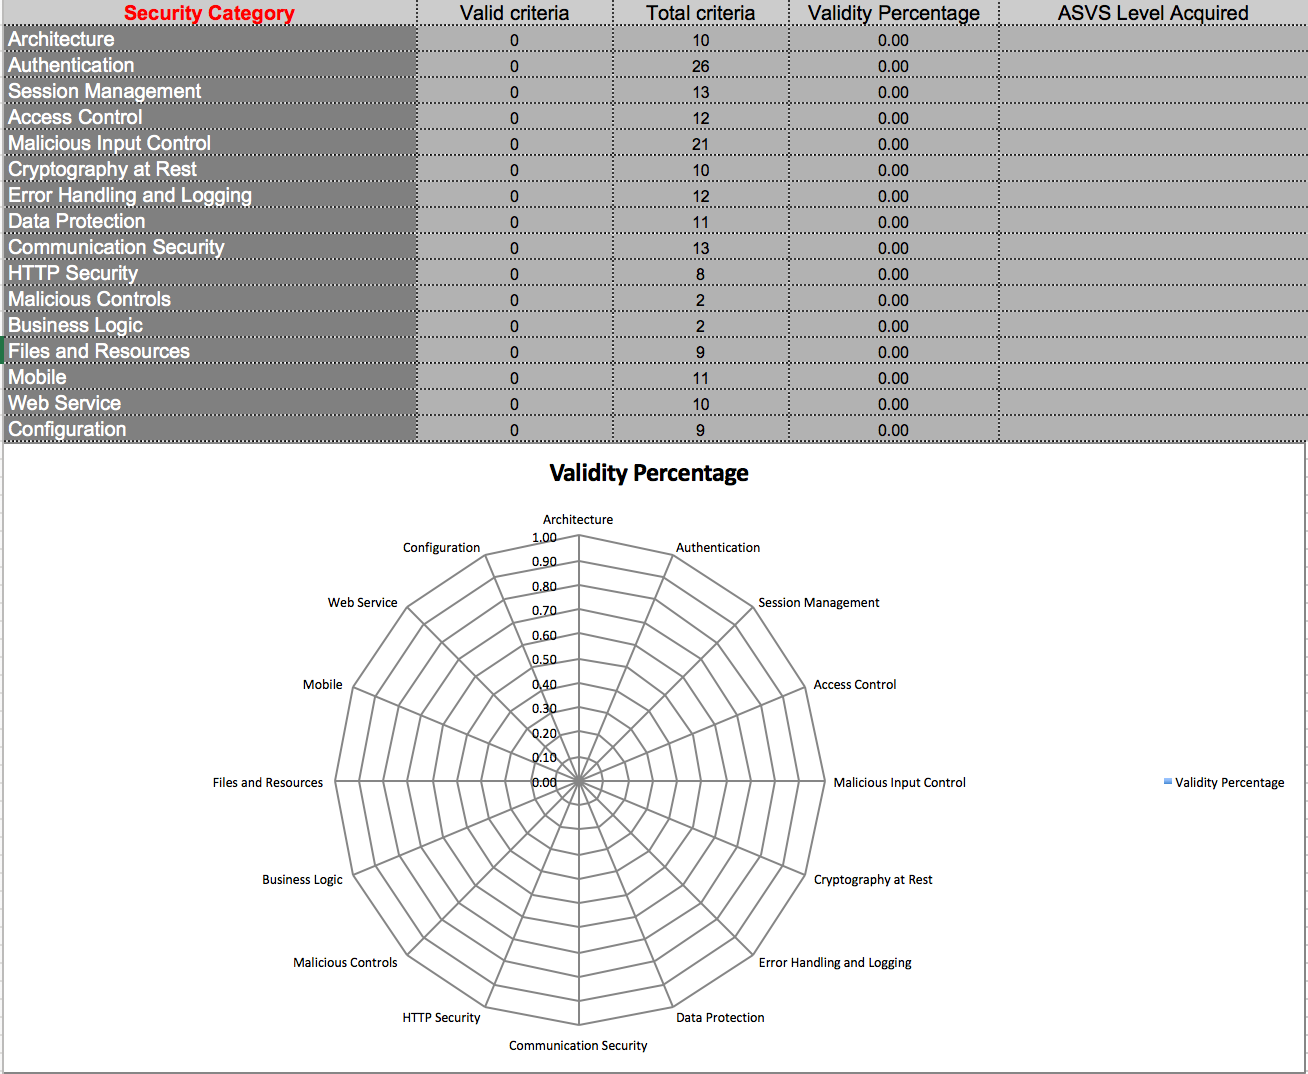
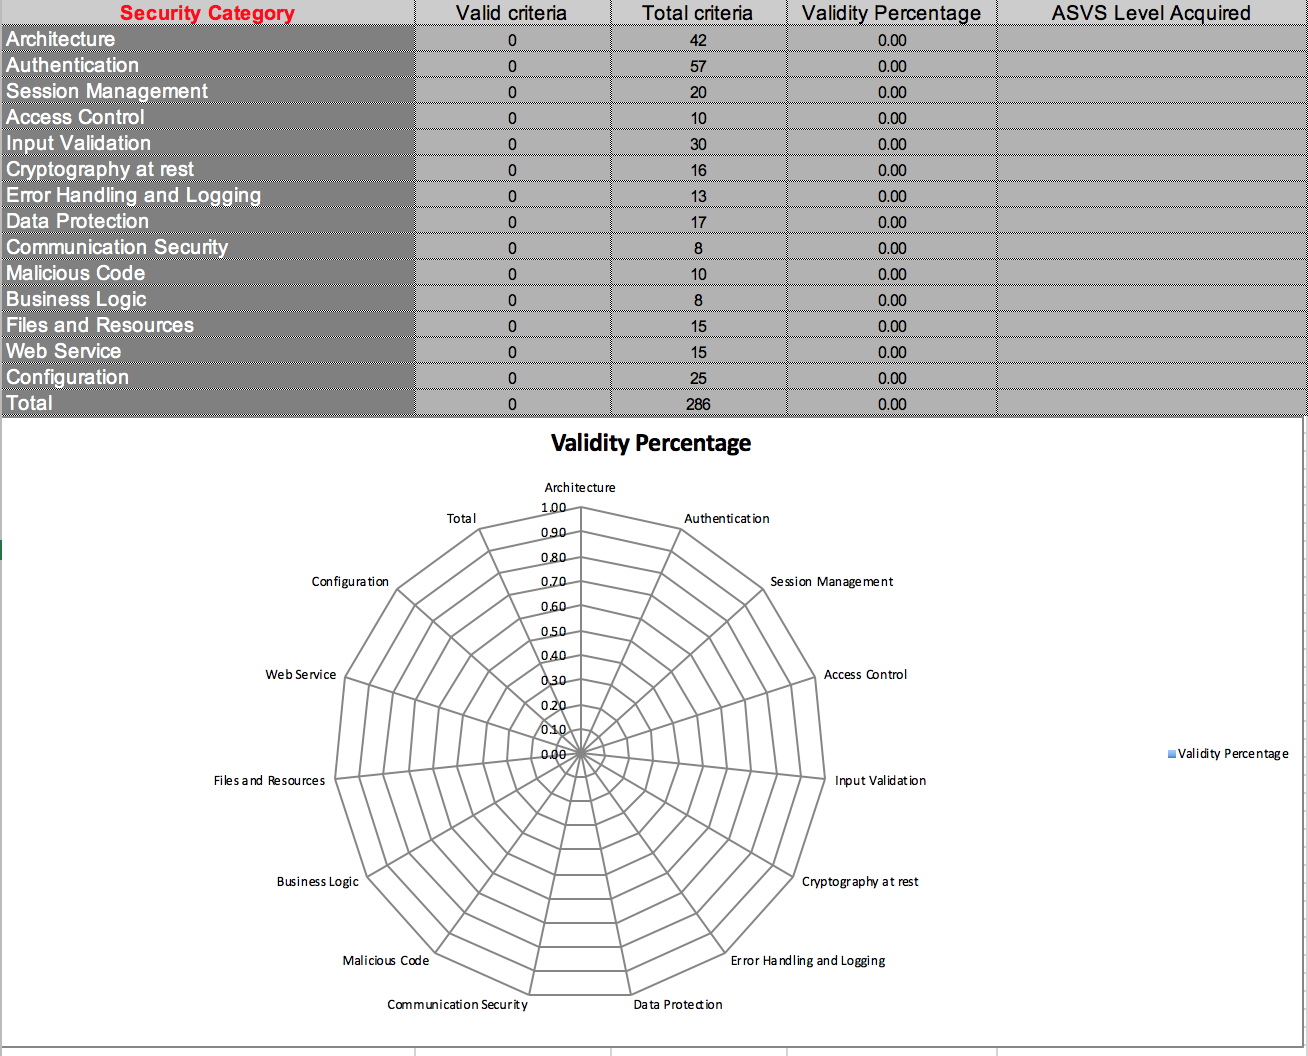
Update the README and screenshot

Changed region(s): [[0.0, 0.0, 1.0, 1.0]]

diff --git a/README.md b/README.md
@@ -7,13 +7,16 @@
 
 @emilva
 
+## OWASP ASVS
 [Link of the OWASP ASVS Project](https://www.owasp.org/index.php/Category:OWASP_Application_Security_Verification_Standard_Project)
 
 This document aims at helping you using ASVS more efficiently and in a simpler way.
 
 You have the choice between Excel format and OpenDocument
 
-This checklist is compatible with the version 3.0.1 of ASVS you can find [here](https://www.owasp.org/images/3/33/OWASP_Application_Security_Verification_Standard_3.0.1.pdf)
+This checklist is compatible with the version 4.0.1 of ASVS you can find [here](https://github.com/OWASP/ASVS/raw/master/4.0/OWASP%20Application%20Security%20Verification%20Standard%204.0-en.pdf)
+
+Older versions of the checklist are also available in the [**Release**](https://github.com/shenril/owasp-asvs-checklist/releases) section.
 
 Once the checklist filled you can display a summary graph on the Project
 
